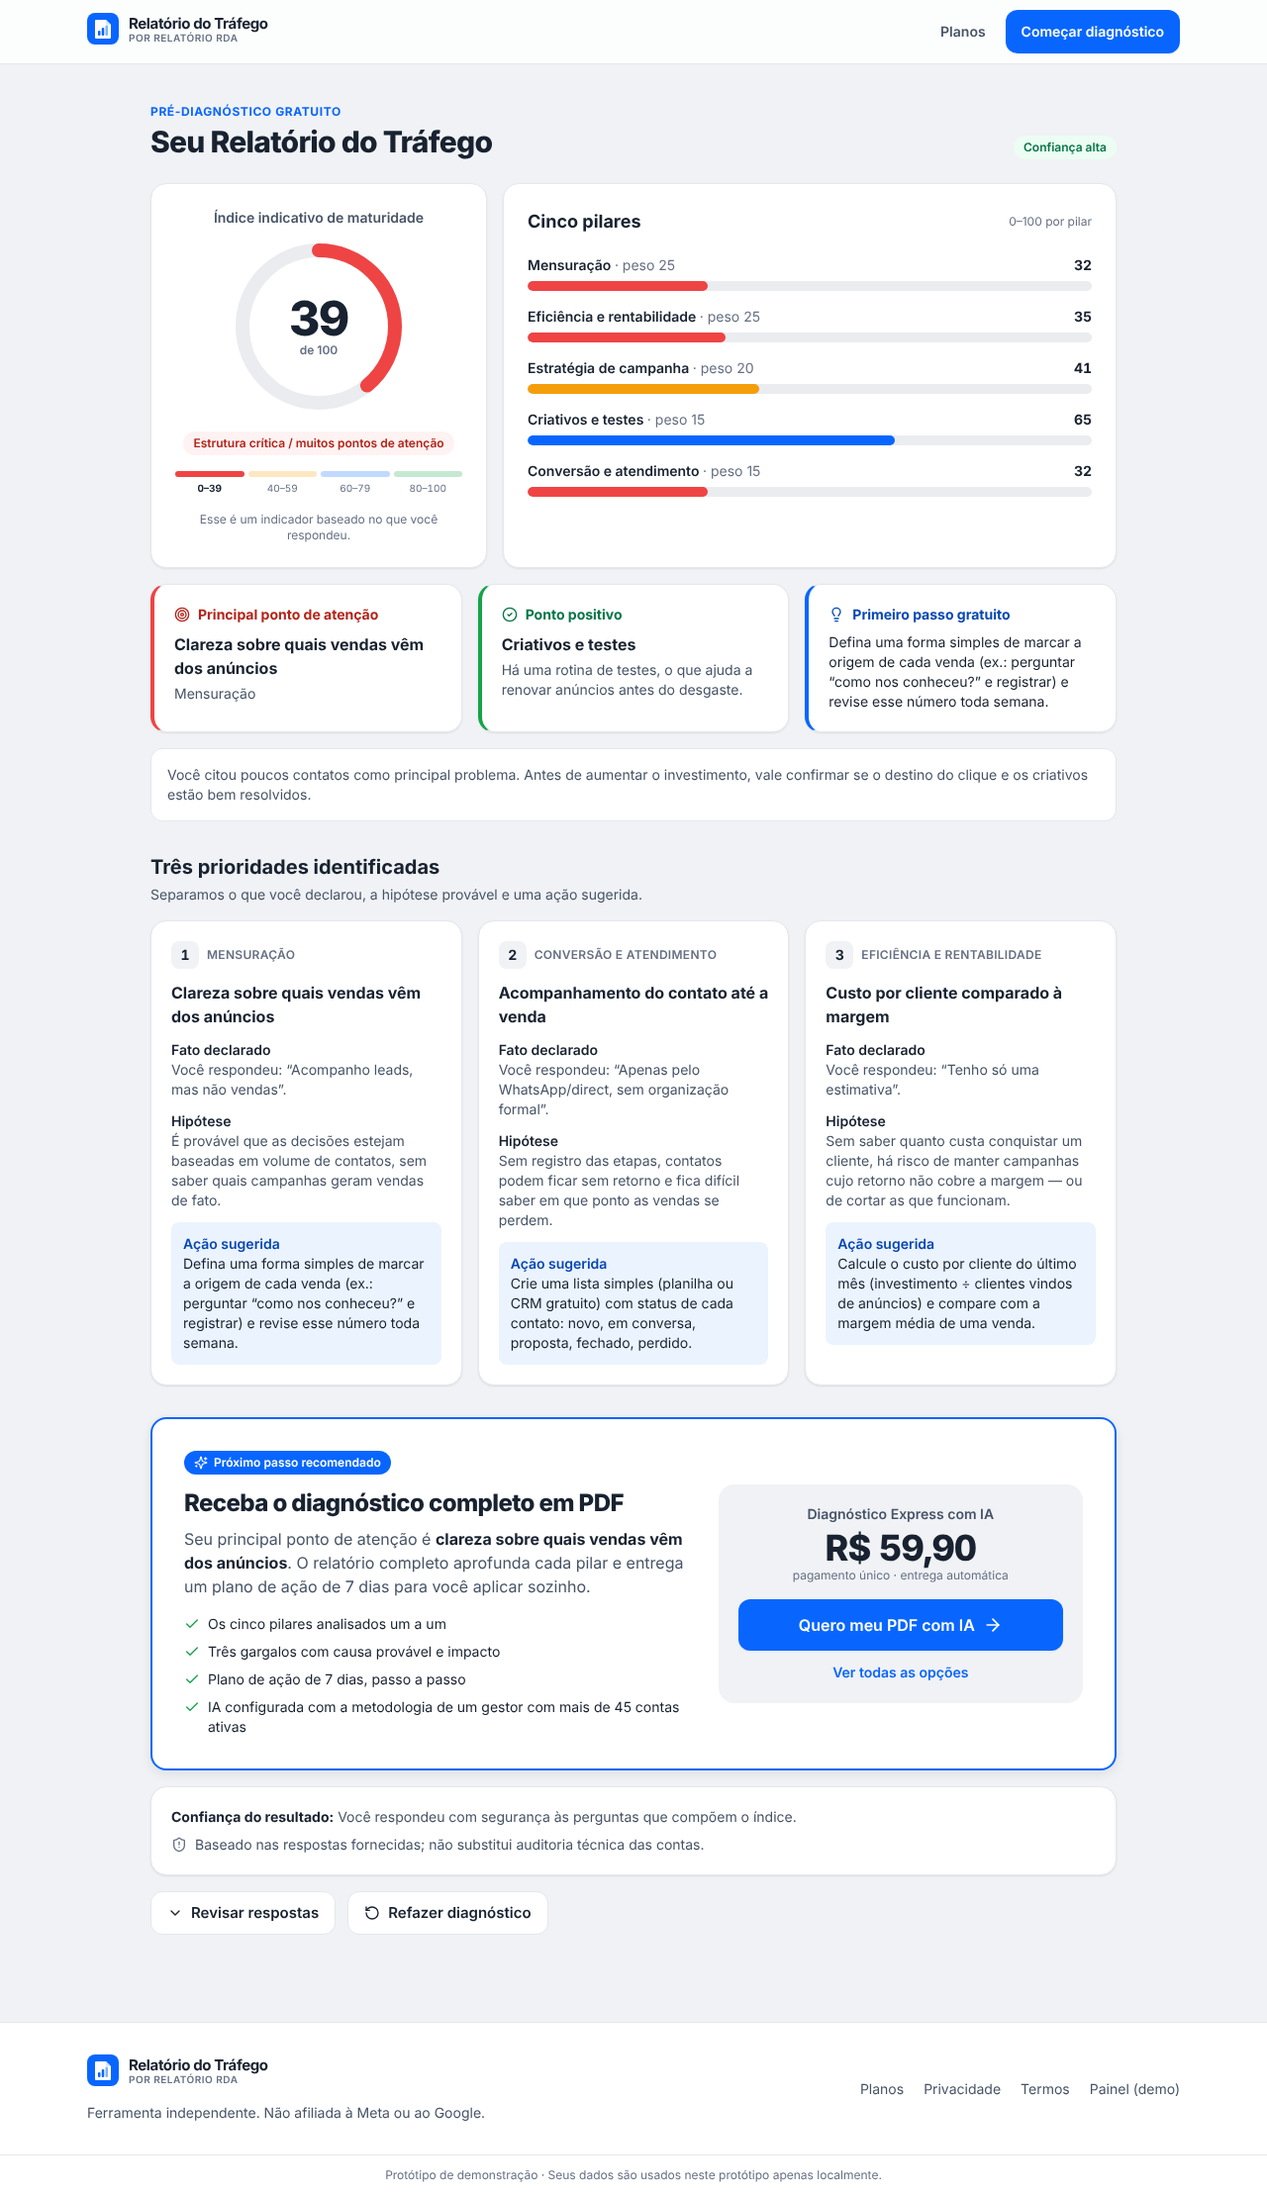
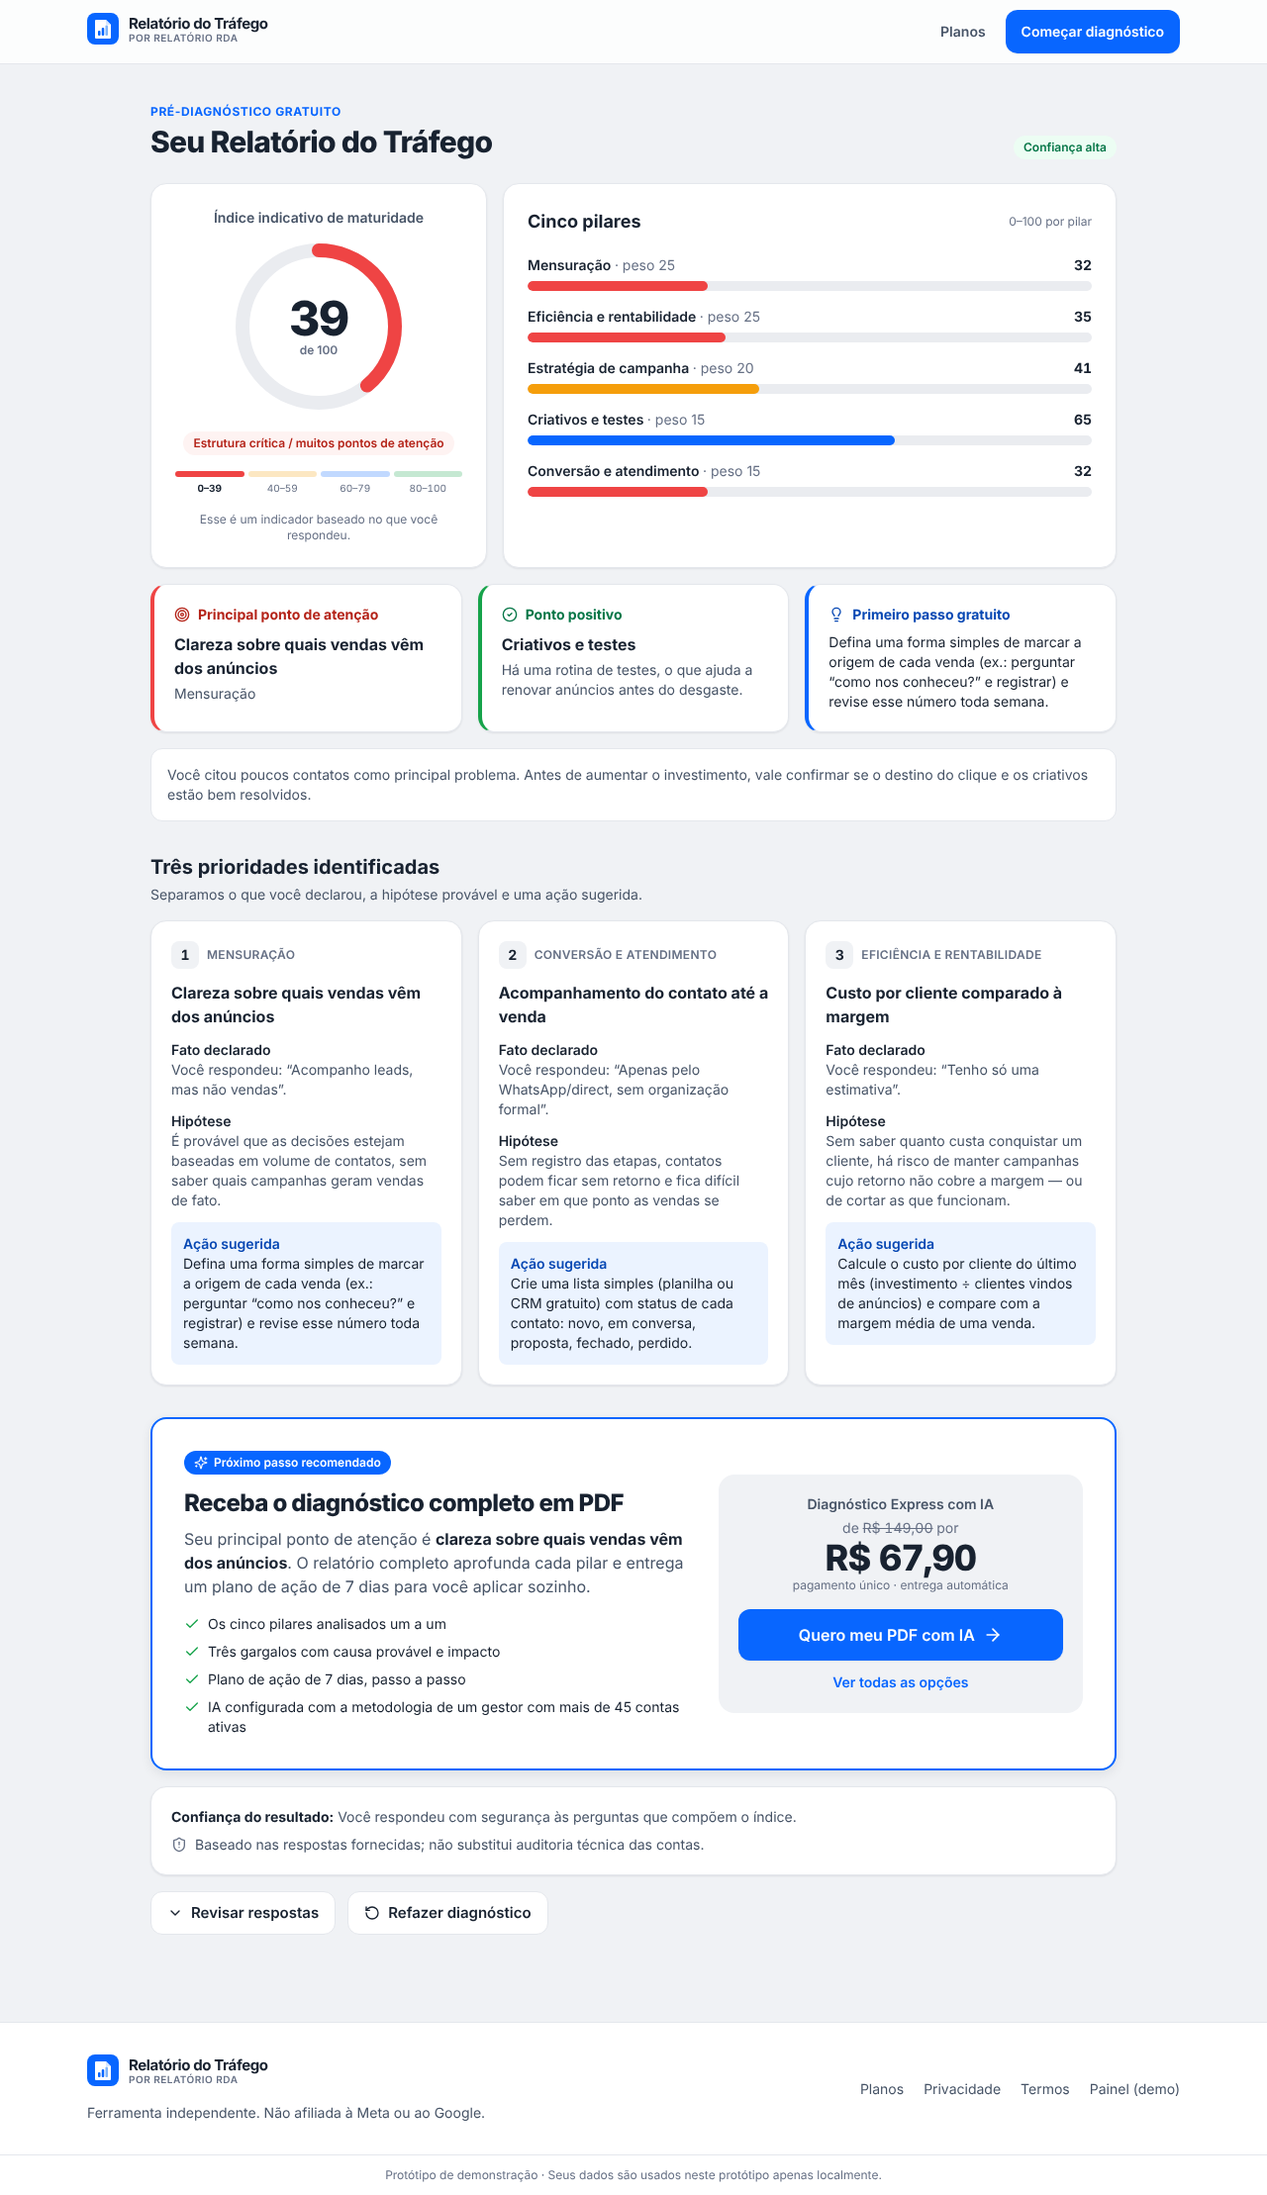
Animate landing preview and reprice Express to R$67,90
- Hero card is now a ~10s looping demo: three quiz answers, a short
  calculating state, then the score, pillar bars, main gap and first step
  appearing; runs only while visible, static result for reduced motion
- Express priced at R$67,90, showing the previously charged R$149,00
  struck through on plans, result offer and demo checkout
- Future upgrade difference adjusted to R$129,10

Claude-Session: https://claude.ai/code/session_01Mtuoy7UwKuteW3eQz1sKDf

Changed region(s): [[0.5938, 0.6844, 0.8438, 0.7777]]

diff --git a/src/components/HeroDemo.tsx b/src/components/HeroDemo.tsx
@@ -1,0 +1,222 @@
+import { Check, FileText, Lightbulb, Loader2, Target } from 'lucide-react';
+import { useEffect, useRef, useState } from 'react';
+
+/**
+ * Demonstração animada (≈10 s, em loop) do produto: parte do quiz sendo
+ * respondida e o resultado aparecendo. Todos os valores são ilustrativos.
+ */
+
+const DEMO_QUESTIONS = [
+  {
+    n: 5,
+    title: 'Você sabe quantas vendas vieram dos anúncios no último mês?',
+    options: ['Sim, com números confiáveis', 'Tenho uma estimativa', 'Acompanho leads, não vendas'],
+    pick: 2,
+  },
+  {
+    n: 9,
+    title: 'Como você acompanha os contatos até a venda?',
+    options: ['CRM com etapas e status', 'Planilha manual', 'Só pelo WhatsApp, sem organização'],
+    pick: 2,
+  },
+  {
+    n: 11,
+    title: 'Você sabe seu custo por cliente e se cabe na margem?',
+    options: ['Sim, acompanho ambos', 'Sei o custo, sem comparar', 'Tenho só uma estimativa'],
+    pick: 1,
+  },
+];
+
+const BARS = [
+  { label: 'Mensuração', value: 42, color: 'bg-warn' },
+  { label: 'Criativos', value: 68, color: 'bg-brand' },
+  { label: 'Conversão', value: 31, color: 'bg-bad' },
+];
+
+const SCORE = 54;
+const CYCLE_MS = 10000;
+
+type Frame =
+  | { phase: 'quiz'; q: number; picked: boolean }
+  | { phase: 'loading' }
+  | { phase: 'result' };
+
+/** Linha do tempo de um ciclo: [início em ms, quadro]. */
+const TIMELINE: [number, Frame][] = [
+  [0, { phase: 'quiz', q: 0, picked: false }],
+  [900, { phase: 'quiz', q: 0, picked: true }],
+  [1600, { phase: 'quiz', q: 1, picked: false }],
+  [2500, { phase: 'quiz', q: 1, picked: true }],
+  [3200, { phase: 'quiz', q: 2, picked: false }],
+  [4100, { phase: 'quiz', q: 2, picked: true }],
+  [4800, { phase: 'loading' }],
+  [5800, { phase: 'result' }],
+];
+
+function prefersReducedMotion() {
+  try {
+    return window.matchMedia('(prefers-reduced-motion: reduce)').matches;
+  } catch {
+    return false;
+  }
+}
+
+function useCountUp(target: number, active: boolean, duration = 900) {
+  const [v, setV] = useState(0);
+  useEffect(() => {
+    if (!active) {
+      setV(0);
+      return;
+    }
+    let raf = 0;
+    const start = performance.now();
+    const tick = (t: number) => {
+      const p = Math.min(1, (t - start) / duration);
+      setV(Math.round(target * (1 - Math.pow(1 - p, 3))));
+      if (p < 1) raf = requestAnimationFrame(tick);
+    };
+    raf = requestAnimationFrame(tick);
+    return () => cancelAnimationFrame(raf);
+  }, [target, active, duration]);
+  return v;
+}
+
+export default function HeroDemo() {
+  const reduced = useRef(prefersReducedMotion()).current;
+  const [frame, setFrame] = useState<Frame>(reduced ? { phase: 'result' } : TIMELINE[0][1]);
+  const [cycle, setCycle] = useState(0);
+  const rootRef = useRef<HTMLDivElement>(null);
+  const [visible, setVisible] = useState(true);
+
+  // Só anima quando o cartão está na tela.
+  useEffect(() => {
+    const el = rootRef.current;
+    if (!el || typeof IntersectionObserver === 'undefined') return;
+    const io = new IntersectionObserver(([e]) => setVisible(e.isIntersecting), { threshold: 0.2 });
+    io.observe(el);
+    return () => io.disconnect();
+  }, []);
+
+  useEffect(() => {
+    if (reduced || !visible) return;
+    const timers = TIMELINE.map(([at, f]) => window.setTimeout(() => setFrame(f), at));
+    timers.push(window.setTimeout(() => setCycle((c) => c + 1), CYCLE_MS));
+    return () => timers.forEach(clearTimeout);
+  }, [cycle, reduced, visible]);
+
+  const showResult = frame.phase === 'result';
+  const score = useCountUp(SCORE, showResult);
+  const step = frame.phase === 'quiz' ? 1 : 2;
+  const progress = frame.phase === 'quiz' ? [42, 75, 92][frame.q] : 100;
+
+  return (
+    <div ref={rootRef} className="card relative overflow-hidden p-5 sm:p-6" aria-label="Demonstração ilustrativa: responda ao quiz e receba seu relatório">
+      {/* Cabeçalho com etapas */}
+      <div className="flex items-center justify-between gap-3">
+        <ol className="flex items-center gap-2 text-xs font-semibold" aria-hidden>
+          <li className={`flex items-center gap-1.5 transition-colors ${step === 1 ? 'text-brand' : 'text-ink-mute'}`}>
+            <span className={`grid h-5 w-5 place-items-center rounded-full text-[10px] transition-colors ${step === 1 ? 'bg-brand text-white' : 'bg-ok text-white'}`}>
+              {step === 1 ? '1' : <Check className="h-3 w-3" strokeWidth={3} />}
+            </span>
+            Responda
+          </li>
+          <li className="h-px w-4 bg-line" />
+          <li className={`flex items-center gap-1.5 transition-colors ${step === 2 ? 'text-brand' : 'text-ink-mute'}`}>
+            <span className={`grid h-5 w-5 place-items-center rounded-full text-[10px] transition-colors ${step === 2 ? 'bg-brand text-white' : 'bg-[#EAECF0] text-ink-mute'}`}>2</span>
+            Seu relatório
+          </li>
+        </ol>
+        <span className="chip shrink-0 border border-dashed border-ink-mute/40 bg-[#F9FAFB] text-ink-mute">Dados ilustrativos</span>
+      </div>
+
+      <div className="mt-4 h-1.5 overflow-hidden rounded-full bg-[#EAECF0]">
+        <div className="h-full rounded-full bg-brand transition-[width] duration-500 ease-out" style={{ width: `${progress}%` }} />
+      </div>
+
+      <div className="relative mt-5 min-h-[410px] sm:min-h-[350px]">
+        {frame.phase === 'quiz' && <QuizFrame key={`${cycle}-${frame.q}`} q={frame.q} picked={frame.picked} />}
+
+        {frame.phase === 'loading' && (
+          <div key={`${cycle}-loading`} className="anim-rise absolute inset-0 grid place-items-center text-center">
+            <div>
+              <Loader2 className="mx-auto h-8 w-8 animate-spin text-brand" aria-hidden />
+              <p className="mt-3 font-semibold">Calculando seu índice…</p>
+              <p className="text-sm text-ink-mute">Analisando os cinco pilares</p>
+            </div>
+          </div>
+        )}
+
+        {showResult && (
+          <div key={`${cycle}-result`} className="anim-rise">
+            <p className="text-xs font-semibold uppercase tracking-wider text-ink-mute">Seu Relatório do Tráfego</p>
+            <div className="mt-1 flex items-end gap-3">
+              <span className="tabular text-5xl font-extrabold tracking-tight">{score}</span>
+              <span className="mb-1.5 text-sm text-ink-mute">/ 100</span>
+              <span className="chip mb-2 ml-auto bg-warn-50 text-warn-700">Alto potencial de melhoria</span>
+            </div>
+            <ul className="mt-4 space-y-3">
+              {BARS.map((b, i) => (
+                <li key={b.label}>
+                  <div className="mb-1 flex justify-between text-sm">
+                    <span className="font-semibold">{b.label}</span>
+                    <span className="tabular font-bold">{b.value}</span>
+                  </div>
+                  <div className="h-2.5 overflow-hidden rounded-full bg-[#EAECF0]">
+                    <div className={`anim-grow h-full rounded-full ${b.color}`} style={{ width: `${b.value}%`, animationDelay: `${150 + i * 120}ms` }} />
+                  </div>
+                </li>
+              ))}
+            </ul>
+            <div className="mt-4 grid gap-2 sm:grid-cols-2">
+              <div className="anim-rise rounded-xl bg-bad-50 p-3 [animation-delay:700ms]">
+                <p className="flex items-center gap-1.5 text-xs font-bold text-bad-700">
+                  <Target className="h-3.5 w-3.5" aria-hidden /> Principal ponto de atenção
+                </p>
+                <p className="mt-0.5 text-sm text-ink">Acompanhamento do contato até a venda</p>
+              </div>
+              <div className="anim-rise rounded-xl bg-brand-50 p-3 [animation-delay:1100ms]">
+                <p className="flex items-center gap-1.5 text-xs font-bold text-brand-700">
+                  <Lightbulb className="h-3.5 w-3.5" aria-hidden /> Primeiro passo
+                </p>
+                <p className="mt-0.5 text-sm text-ink">Registrar o status de cada contato</p>
+              </div>
+            </div>
+            <p className="anim-rise mt-3 flex items-center gap-1.5 text-xs text-ink-mute [animation-delay:1500ms]">
+              <FileText className="h-3.5 w-3.5" aria-hidden /> + plano de ação completo em PDF (opcional)
+            </p>
+          </div>
+        )}
+      </div>
+    </div>
+  );
+}
+
+function QuizFrame({ q, picked }: { q: number; picked: boolean }) {
+  const d = DEMO_QUESTIONS[q];
+  return (
+    <div className="anim-rise">
+      <p className="tabular text-xs font-semibold text-ink-mute">Pergunta {d.n} de 12</p>
+      <p className="mt-1 text-lg font-bold leading-snug">{d.title}</p>
+      <ul className="mt-4 space-y-2">
+        {d.options.map((o, i) => {
+          const active = picked && i === d.pick;
+          return (
+            <li
+              key={o}
+              className={`flex items-center gap-3 rounded-xl border px-3.5 py-3 text-sm font-medium transition-all duration-200 ${
+                active ? 'scale-[1.01] border-brand bg-brand-50/60 shadow-[0_0_0_3px_rgba(8,102,255,0.12)]' : 'border-line bg-white'
+              }`}
+            >
+              <span
+                className={`grid h-4 w-4 shrink-0 place-items-center rounded-full border-2 transition-colors ${active ? 'border-brand bg-brand text-white' : 'border-[#D0D5DD]'}`}
+              >
+                {active && <Check className="h-2.5 w-2.5" strokeWidth={3} />}
+              </span>
+              {o}
+            </li>
+          );
+        })}
+      </ul>
+    </div>
+  );
+}

diff --git a/src/pages/Landing.tsx b/src/pages/Landing.tsx
@@ -12,49 +12,8 @@ import {
   UserRound,
   Wallet,
 } from 'lucide-react';
+import HeroDemo from '../components/HeroDemo';
 import { LinkButton, SectionTitle } from '../components/ui';
-
-const PREVIEW = [
-  { label: 'Mensuração', value: 42, color: 'bg-warn' },
-  { label: 'Criativos', value: 68, color: 'bg-brand' },
-  { label: 'Conversão', value: 31, color: 'bg-bad' },
-];
-
-function DashboardPreview() {
-  return (
-    <div className="card relative overflow-hidden p-5 sm:p-6" aria-label="Prévia ilustrativa do diagnóstico">
-      <div className="mb-5 flex items-start justify-between gap-3">
-        <div>
-          <p className="text-xs font-semibold uppercase tracking-wider text-ink-mute">Prévia do diagnóstico</p>
-          <p className="mt-1 text-lg font-bold">Índice de maturidade</p>
-        </div>
-        <span className="chip border border-dashed border-ink-mute/40 bg-[#F9FAFB] text-ink-mute">Dados ilustrativos</span>
-      </div>
-      <div className="mb-6 flex items-end gap-3">
-        <span className="tabular text-5xl font-extrabold tracking-tight">54</span>
-        <span className="mb-1.5 text-sm text-ink-mute">/ 100</span>
-        <span className="chip mb-2 ml-auto bg-warn-50 text-warn-700">Alto potencial de melhoria</span>
-      </div>
-      <ul className="space-y-4">
-        {PREVIEW.map((p, i) => (
-          <li key={p.label}>
-            <div className="mb-1.5 flex justify-between text-sm">
-              <span className="font-semibold">{p.label}</span>
-              <span className="tabular font-bold">{p.value}</span>
-            </div>
-            <div className="h-2.5 overflow-hidden rounded-full bg-[#EAECF0]">
-              <div className={`anim-grow h-full rounded-full ${p.color}`} style={{ width: `${p.value}%`, animationDelay: `${200 + i * 120}ms` }} />
-            </div>
-          </li>
-        ))}
-      </ul>
-      <div className="mt-6 rounded-xl bg-brand-50 p-3.5 text-sm">
-        <p className="font-semibold text-brand-700">Principal ponto de atenção</p>
-        <p className="mt-0.5 text-ink-soft">Acompanhamento do contato até a venda</p>
-      </div>
-    </div>
-  );
-}
 
 const AREAS = [
   { icon: Gauge, title: 'Mensuração', text: 'Se você consegue saber quais vendas vêm dos anúncios.' },
@@ -68,7 +27,7 @@ const RECEIVE = [
   { icon: BarChart3, title: 'Nota de maturidade', text: 'Um índice indicativo de 0 a 100, com a avaliação de cada pilar.', free: true },
   { icon: Target, title: 'Principal gargalo', text: 'A área que mais merece atenção, de acordo com as suas respostas.', free: true },
   { icon: ArrowRight, title: 'Primeiro próximo passo', text: 'Uma ação prática para começar, sem custo.', free: true },
-  { icon: FileText, title: 'Relatório aprofundado', text: 'Plano de ação completo em PDF com IA por R$ 59,90 — opcional.', free: false },
+  { icon: FileText, title: 'Relatório aprofundado', text: 'Plano de ação completo em PDF com IA por R$ 67,90 — opcional.', free: false },
 ];
 
 export default function Landing() {
@@ -99,7 +58,7 @@ export default function Landing() {
           </ul>
         </div>
         <div className="anim-rise [animation-delay:80ms]">
-          <DashboardPreview />
+          <HeroDemo />
         </div>
       </section>
 

diff --git a/src/data/plans.ts b/src/data/plans.ts
@@ -4,7 +4,8 @@ export const PLANS: Plan[] = [
   {
     id: 'express',
     name: 'Diagnóstico Express com IA',
-    price: 'R$ 59,90',
+    price: 'R$ 67,90',
+    oldPrice: 'R$ 149,00',
     priceNote: 'pagamento único',
     tagline: 'IA especializada em tráfego pago, configurada com a metodologia de um gestor com mais de 45 contas ativas.',
     features: [
@@ -59,5 +60,5 @@ export function getPlan(id: string | null | undefined): Plan | undefined {
   return PLANS.find((p) => p.id === (id as PlanId));
 }
 
-/** Reservado para fase futura: upgrade Express → Especialista (R$ 197,00 − R$ 59,90). Não implementado. */
-export const FUTURE_UPGRADE_DIFF = 'R$ 137,10';
+/** Reservado para fase futura: upgrade Express → Especialista (R$ 197,00 − R$ 67,90). Não implementado. */
+export const FUTURE_UPGRADE_DIFF = 'R$ 129,10';

diff --git a/src/pages/Result.tsx b/src/pages/Result.tsx
@@ -170,7 +170,8 @@ export default function Result() {
           </div>
           <div className="rounded-2xl bg-canvas p-5 text-center">
             <p className="text-sm font-semibold text-ink-soft">Diagnóstico Express com IA</p>
-            <p className="tabular mt-1 text-4xl font-extrabold tracking-tight">R$ 59,90</p>
+            <p className="tabular mt-1 text-sm text-ink-mute">de <s>R$ 149,00</s> por</p>
+            <p className="tabular text-4xl font-extrabold tracking-tight">R$ 67,90</p>
             <p className="text-xs text-ink-mute">pagamento único · entrega automática</p>
             <LinkButton to="/checkout-demo?plano=express" size="lg" className="mt-4 w-full">
               Quero meu PDF com IA <ArrowRight className="h-5 w-5" aria-hidden />

diff --git a/src/pages/Plans.tsx b/src/pages/Plans.tsx
@@ -99,6 +99,11 @@ export default function Plans() {
 
             <div className="mt-7 flex flex-col gap-5 rounded-2xl bg-canvas p-5 sm:flex-row sm:items-center sm:justify-between">
               <div>
+                {express.oldPrice && (
+                  <p className="tabular text-sm text-ink-mute">
+                    de <s>{express.oldPrice}</s> por
+                  </p>
+                )}
                 <p className="tabular text-4xl font-extrabold tracking-tight">{express.price}</p>
                 <p className="text-sm text-ink-mute">pagamento único · sem mensalidade</p>
               </div>

diff --git a/src/pages/CheckoutDemo.tsx b/src/pages/CheckoutDemo.tsx
@@ -62,6 +62,11 @@ export default function CheckoutDemo() {
 
         <Card className="flex flex-col p-6">
           <p className="text-sm text-ink-soft">Valor do plano</p>
+          {plan.oldPrice && (
+            <p className="tabular text-sm text-ink-mute">
+              de <s>{plan.oldPrice}</s> por
+            </p>
+          )}
           <p className="tabular text-3xl font-extrabold">{plan.price}</p>
           <p className="text-xs text-ink-mute">{plan.priceNote}</p>
           <div className="mt-6 flex-1" />

diff --git a/src/pages/SpecialistPlan.tsx b/src/pages/SpecialistPlan.tsx
@@ -101,7 +101,7 @@ export default function SpecialistPlan() {
             Quero minha análise <ArrowRight className="h-4 w-4" aria-hidden />
           </LinkButton>
           <Link to="/checkout-demo?plano=express" className="mt-3 block text-center text-sm font-semibold text-brand hover:underline">
-            Prefiro o Express com IA (R$ 59,90)
+            Prefiro o Express com IA (R$ 67,90)
           </Link>
         </Card>
       </div>

diff --git a/src/types/index.ts b/src/types/index.ts
@@ -118,6 +118,8 @@ export interface Plan {
   id: PlanId;
   name: string;
   price: string;
+  /** Preço praticado anteriormente, exibido riscado. */
+  oldPrice?: string;
   priceNote?: string;
   tagline: string;
   features: string[];
